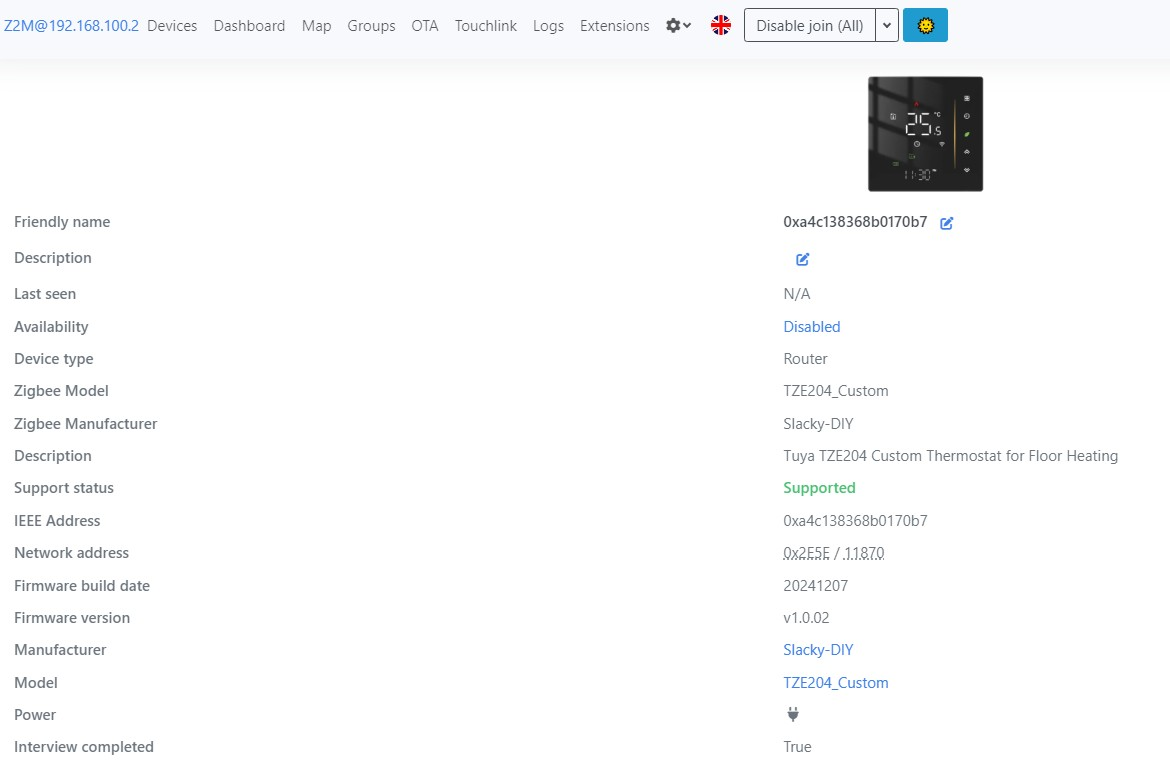
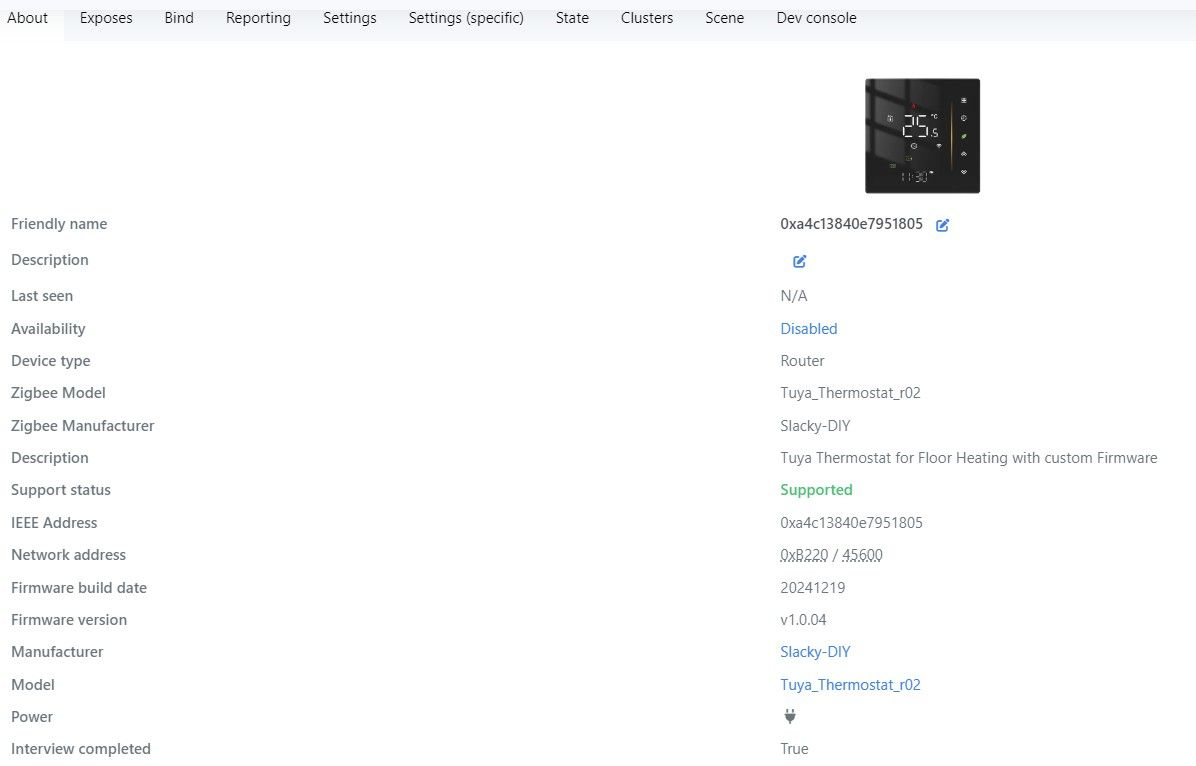
pictures update

diff --git a/README.md b/README.md
@@ -76,6 +76,22 @@ ota:
 
 Далее ждем окончания. После этого мы в OTA видим наш термостат со старым именем, но уже с новыми `Firmware build date` и `Firmware version`.
 
+Вот так выглядит лог при первом старте после обновления с прошивки Tuya на кастомную.
+
+```
+OTA mode enabled. MCU boot from address: 0x8000
+Firmware version: v1.0.04
+Tuya bootloader
+Bootloader is overwritten. Reset
+OTA mode enabled. MCU boot from address: 0x8000
+Firmware version: v1.0.04
+SDK bootloader
+out_pkt <== 0x55AA02000101000003
+inp_pkt ==> 0x55AA02000101001C7B2270223A2265646C38707A316B222C2276223A22312E302E30227D8D
+Tuya signature found: "edl8pz1k"
+Use modelId: Tuya_Thermostat_r02
+```
+
 Далее идем в радел `Devices` и жмем на нашем термостате "Корзинку", т.е. удаляем его из сети.
 
 <img src="https://raw.githubusercontent.com/slacky1965/tuya_thermostat_zrd/refs/heads/main/doc/images/z2m_tuya_remove_1.jpg"/>
